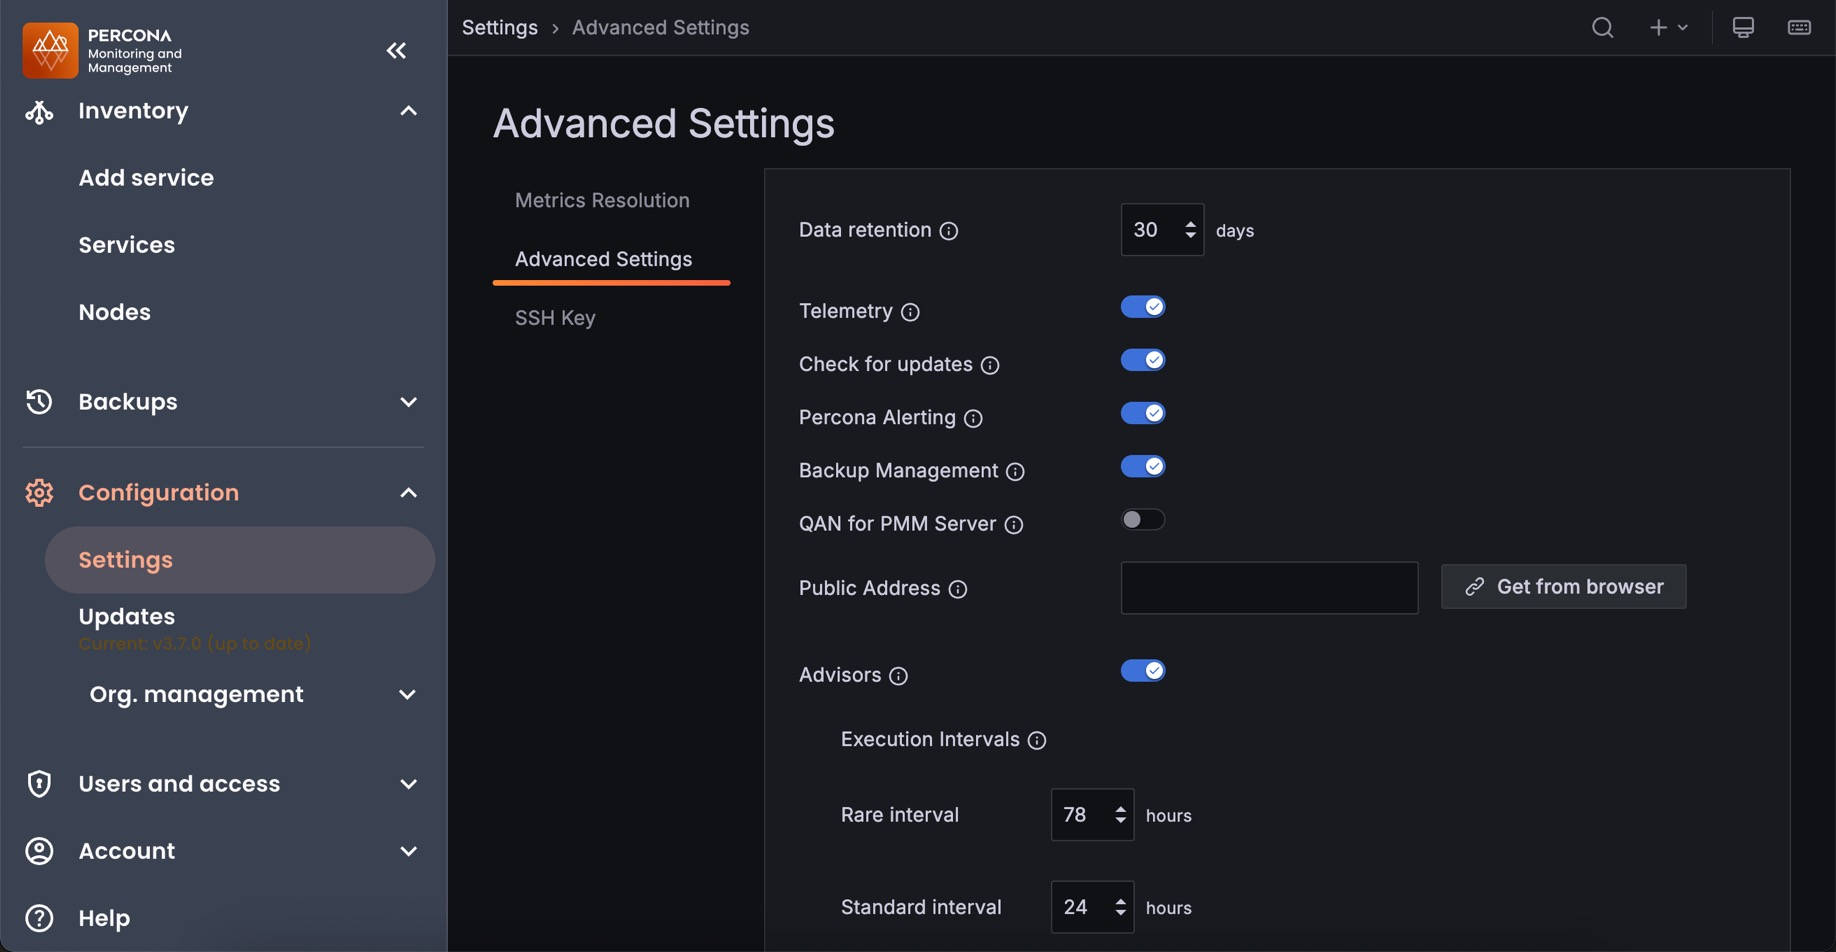
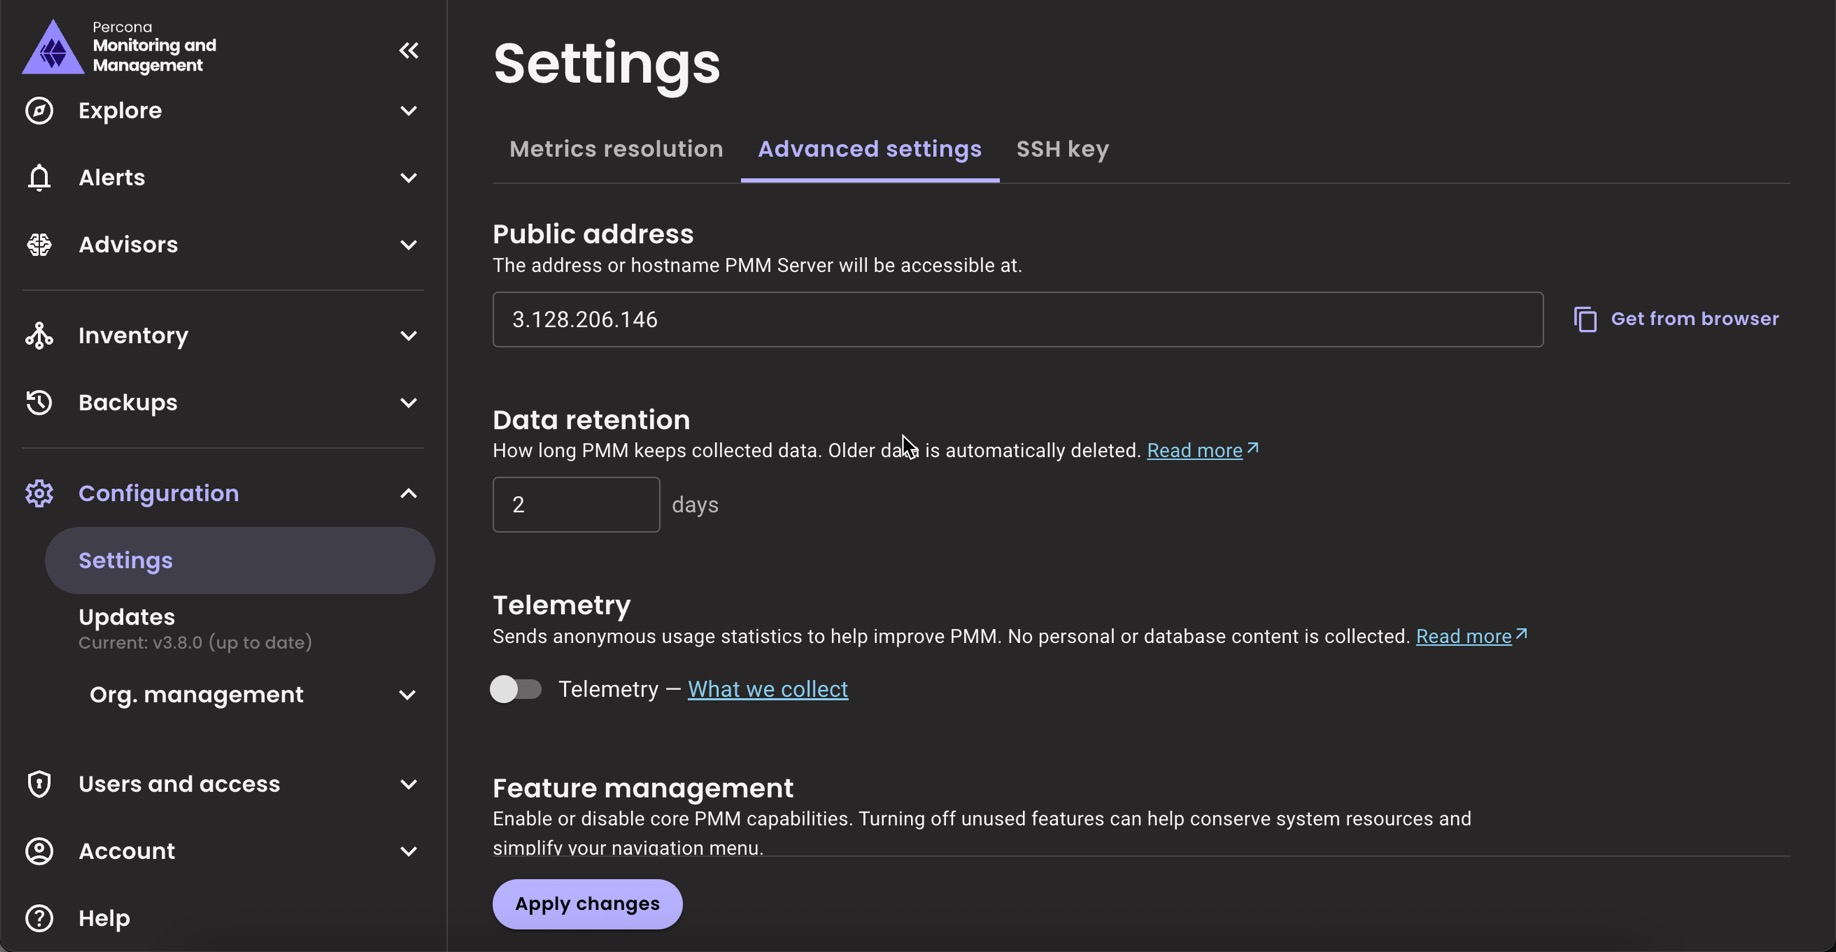
[Doc] Update PMM configuration references to use "Configuration > Settings > Advanced settings"

diff --git a/documentation/docs/release-notes/3.8.0.md b/documentation/docs/release-notes/3.8.0.md
@@ -25,25 +25,41 @@ PMM 3.8.0 ships with [Grafana 12.4](https://grafana.com/docs/grafana/latest/what
 
 **Custom dashboard compatibility**: All PMM-provided dashboards are unaffected by Grafana 12's Angular removal. If you have custom dashboards using legacy **Graph (old)** or **Table (old)** panels, Grafana will auto-migrate them on first load.
 
+**Recording rules**: Alert rules now support [**recording rules**](https://grafana.com/docs/grafana/latest/alerting/alerting-rules/create-recording-rules/), which pre-calculate frequently used or expensive queries and store the results as new metrics. This can simplify complex alert conditions and improve query performance at scale.
+
 ## 📦 Components upgrade
 
 - **Grafana**: Upgraded to 12.4.
 
 ## 🔒 Security updates
 
-TODO
+- [PMM-15005](https://perconadev.atlassian.net/browse/PMM-15005): Removed a self-signed TLS certificate that was previously included in the PMM Server image to suppress ClickHouse startup log noise. Because the same certificate was shared across all PMM Server installations, CVE scanners flagged it as a security risk. Since ClickHouse in PMM doesn't use TLS, the startup log noise is now suppressed without needing a certificate at all.
+
+## ⚠️ Deprecations
+
+- [PMM-14968](https://perconadev.atlassian.net/browse/PMM-14968): UI-based upgrades are now officially deprecated and will be removed in PMM 3.9.0 (July 2026). PMM now shows a warning on all pages where UI-based upgrades were available. Switch to [Docker](../pmm-upgrade/upgrade_docker.md), [Podman](../pmm-upgrade/upgrade_podman.md), or [Helm](../pmm-upgrade/upgrade_helm.md) before then. If you use Watchtower, remove it before switching to avoid conflicts.
 
 ## 📈 Improvements
 
 - [PMM-12392](https://perconadev.atlassian.net/browse/PMM-12392): Improved how PMM collects processlist data on MySQL 5.7.39+ and 8.0.22+ by switching from Information Schema to Performance Schema. On busy MySQL instances, this reduces the chance of query blocking and deadlocks, lowering the overall monitoring impact on your MySQL server workload.
 
-- [PMM-14937](https://perconadev.atlassian.net/browse/PMM-14937): When adding a MySQL, PostgreSQL, MongoDB, ProxySQL, Valkey, Amazon RDS, or Azure service, you can now set a **Connection timeout** to control how long PMM waits before giving up on a connection attempt. This is useful when monitoring remote or high-latency databases where the default 2s timeout is too short.
+- [PMM-14937](https://perconadev.atlassian.net/browse/PMM-14937): When adding a MySQL, PostgreSQL, MongoDB, ProxySQL, Valkey, Amazon RDS, or Azure service, you can now set a **Connection timeout** to control how long PMM waits before giving up on a connection attempt. This is useful when monitoring remote or high-latency databases where the default timeout is too short.
+
+- [PMM-14068](https://perconadev.atlassian.net/browse/PMM-14068): The [PostgreSQL Instance Summary](../reference/dashboards/dashboard-postgresql-instance-summary.md) dashboard is now easier to read: summary panels use a consistent color scheme to help you spot issues faster, the layout fits laptop screens without cutting off panels, and tables no longer require horizontal scrolling to see all data.
+
+- [PMM-14930](https://perconadev.atlassian.net/browse/PMM-14930): Building on the [native PMM navigation introduced in 3.6.0](3.6.0.md), the **Settings** page now also runs in native PMM UI. You get the same settings with **Metrics resolution**, **Advanced settings**, and **SSH key** tabs in a page that loads faster and looks consistent with the rest of the new interface. Access it at **Configuration > Settings** in the left sidebar.
+
+    ![PMM Settings in native UI](../images/PMM_Settings_native_ui.png)
+
+- [PMM-14995](https://perconadev.atlassian.net/browse/PMM-14995): PMM has been updated with Percona's refreshed brand. You'll notice the updated logo across the sidebar, login screen, and help center, along with new technology icons for MySQL, PostgreSQL, MongoDB, and Valkey, and a refreshed color palette throughout the interface.
 
 ## ✅ Fixed issues
 
 - [PMM-14748](https://perconadev.atlassian.net/browse/PMM-14748): Fixed dashboards resetting the time zone to the browser default when navigating between pages. All dashboards now respect the time zone set in your profile preferences. See [Set time zone](../reference/ui/timezone.md).
 
 - [PMM-14791](https://perconadev.atlassian.net/browse/PMM-14791): Resolved an issue in the **Disk Space** graphs on the **Disk Details** dashboard where values were hard to read, legend labels were missing, and charts were displayed incorrectly.
+
+- [PMM-14934](https://perconadev.atlassian.net/browse/PMM-14934): Fixed an issue where the `GF_SECURITY_ADMIN_USER` and `GF_SECURITY_ADMIN_PASSWORD` environment variables were ignored when starting PMM Server with a named Docker volume (`-v pmm-data:/srv`). You can now use these variables to set the admin username and password at first start, regardless of how the data volume is mounted. As part of this fix, **the first start after upgrading takes about 20–30 seconds longer** than usual while PMM initializes. Subsequent starts are unaffected. PMM HA deployments are unimpacted.
 
 ## 🚀 Ready to upgrade to PMM 3.8.0?
 

diff --git a/documentation/docs/configure-pmm/advanced_settings.md b/documentation/docs/configure-pmm/advanced_settings.md
@@ -16,7 +16,7 @@ PMM Telemetry is based on data collected by various PMM components and stored in
 !!! note alert alert-primary ""
     When PMM is installed, telemetry is not sent immediately. Before the first telemetry report is generated, PMM provides users with a 24-hour grace period to disable telemetry.
 
-To see the metrics being collected by telemetry, from the [main menu](../reference/ui/ui_components.md#1-main-menu) navigate to **PMM Configuration** > :material-cog-outline: **Settings** > **Advanced Settings** > **Telemetry** and hover over the exclamation mark.
+To see the metrics being collected by telemetry, from the [main menu](../reference/ui/ui_components.md#1-main-menu) navigate to **Configuration > Settings > Advanced settings > Telemetry** and hover over the exclamation mark.
 
 ![!image](../images/PMM_Settings_Advanced_Settings_Telemetry.png)
 
@@ -33,7 +33,7 @@ The landing page for this service, [check.percona.com](https://check.percona.com
 
 Grafana’s [anonymous usage statistics](https://grafana.com/docs/grafana/latest/administration/configuration/#reporting-enabled) is not managed by PMM. To activate it, you must change the PMM Server container configuration after each update.
 
-As well as via the **PMM Settings** page, you can also disable telemetry with the `-e DISABLE_TELEMETRY=1` option in your docker run statement for the PMM Server.
+You can also disable telemetry with the `-e DISABLE_TELEMETRY=1` option in your docker run statement for the PMM Server.
 
 For information on the various config parameters for telemetry, see the [config file](https://github.com/percona/pmm/blob/main/managed/services/telemetry/config.default.yml).
 
@@ -47,7 +47,7 @@ Advisors are sets of checks grouped by functionality that run a range of databas
 
 The findings are reported on the **Advisors > Advisor Insights** page, and an overview is displayed on the Home dashboard.
 
-The Advisors toggle is enabled by default and located in the **Execution intervals** section. Checks are re-fetched and rerun at the intervals configured there.
+The Advisors toggle is enabled by default. When enabled, you can configure how often checks run using the **Rare**, **Standard**, and **Frequent** interval fields in the same section.
 
 See [Working with Advisor checks](../advisors/advisors.md).
 

diff --git a/documentation/docs/advisors/advisors.md b/documentation/docs/advisors/advisors.md
@@ -19,7 +19,7 @@ Check results *always* remain on the PMM Server. They are never sent as part of 
 ## Configure execution intervals
 To control when and how often advisor checks run:
 
-- for all checks: Navigate to **PMM Configuration > Settings > Execution Intervals** to set global default intervals.
+- for all checks: Navigate to **Configuration > Settings > Advanced settings** and use the **Rare**, **Standard**, and **Frequent** interval fields in the **Advisors** section to set global default intervals.
 - for individual checks: Navigate to the specific advisor category (such as **Advisors > Security Advisors**, **Configuration Advisors**, **Query Advisors**, or **Performance Advisors**), then click the Edit icon in the **Actions** column to override the global setting for specific checks.
 
 ### Change run interval for automatic advisors

diff --git a/documentation/docs/advisors/develop-advisor-checks.md b/documentation/docs/advisors/develop-advisor-checks.md
@@ -230,7 +230,7 @@ To develop custom checks for PMM:
 
 3. Log into Grafana with credentials **admin/admin**.
 
-4. Go to **PMM Configuration > Settings > Advanced Settings** and make sure the **Advisors** option is enabled.
+4. Go to **Configuration > Settings > Advanced settings** and make sure the **Advisors** option is enabled.
 
 5. Create `/srv/custom-checks.yml` inside the `pmm-server` container with the content of your check. Specify **dev** advisor in your check.
 

diff --git a/documentation/docs/alert/alert_rules.md b/documentation/docs/alert/alert_rules.md
@@ -38,7 +38,7 @@ This section focuses on creating an alert rule based on PMM templates. For infor
 Before creating PMM alert rules, configure the required alert resources:
 {.power-number}
 
-1. Go to **PMM Configuration > Settings > Advanced Settings** and ensure that the **Percona Alerting** option is enabled. When this is disabled, the **Alerting** page displays only Grafana-managed alert rules. This means that you will not be able to create alerts based on PMM templates.
+1. Go to **Configuration > Settings > Advanced settings** and ensure that the **Percona Alerting** option is enabled. When this is disabled, the **Alerting** page displays only Grafana-managed alert rules. This means that you will not be able to create alerts based on PMM templates.
 2. Go to **Dashboards** and check the folders available for storing alert rules. If none of the available folders are relevant for your future alert rules, click **New > New Folder** and create a custom one.
 3. Go to **Alerting > Alert rule templates** and check the default PMM templates. If none of the templates include a relevant expression for the type of alerts that you want to create, click **Add template** to create a custom template instead.
 

diff --git a/documentation/docs/alert/disable_alerts.md b/documentation/docs/alert/disable_alerts.md
@@ -5,5 +5,5 @@ Percona Alerting is enabled by default in the PMM Settings. This feature adds th
 If for some reason you want to disable PMM Alert templates and keep only Grafana-managed alerts:
 {.power-number}
 
-1. Go to **PMM Configuration > Settings > Advanced settings**.
+1. Go to **Configuration > Settings > Advanced settings**.
 2. Disable the **Alerting** option. The **Alerting** menu will now display only Grafana-managed alert rules.

diff --git a/documentation/docs/configure-pmm/configure.md b/documentation/docs/configure-pmm/configure.md
@@ -2,7 +2,7 @@
 
 This section provides the instructions to configure your PMM instance after you have installed PMM.
 
-The **PMM Configuration** page gives you access to PMM setup's settings and inventory options:
+**Configuration > Settings** gives you access to PMM setup's settings and inventory options:
 
 * [Metrics resolution](metrics_res.md)
 * [Advanced Settings](advanced_settings.md)

diff --git a/documentation/docs/install-pmm/install-pmm-client/connect-database/azure.md b/documentation/docs/install-pmm/install-pmm-client/connect-database/azure.md
@@ -8,7 +8,7 @@
 The Microsoft Azure feature is turned off by default. To turn it on:
 {.power-number}
 
-1. Go to  **PMM Configuration > Settings > Advanced Settings**.
+1. Go to **Configuration > Settings > Advanced settings**.
 
 2. Click the <i class="uil uil-toggle-off"></i> toggle in the **Technical preview features** section of the page.
 

diff --git a/documentation/docs/install-pmm/install-pmm-server/deployment-options/docker/env_var.md b/documentation/docs/install-pmm/install-pmm-server/deployment-options/docker/env_var.md
@@ -35,7 +35,7 @@ Enable or disable specific PMM features:
 | `PMM_ENABLE_ALERTING` | `true` | Enables Percona Alerting system |
 | `PMM_ENABLE_BACKUP_MANAGEMENT` | `true` | Enables backup features |
 | `PMM_ENABLE_AZURE_DISCOVER` | `false` | Enables Azure database discovery |
-| `PMM_ENABLE_INTERNAL_PG_QAN` | `0` (disabled) | Enables Query Analytics for PMM Server's internal PostgreSQL. Useful for troubleshooting or HA scenarios. Set to `1` to enable. Can also be controlled via **PMM Configuration > Settings > Advanced Settings**. See [QAN for PMM Server's internal PostgreSQL](../../../../use/qan/QAN-stored-metrics.md#monitor-pmm-servers-internal-postgresql)
+| `PMM_ENABLE_INTERNAL_PG_QAN` | `0` (disabled) | Enables Query Analytics for PMM Server's internal PostgreSQL. Useful for troubleshooting or HA scenarios. Set to `1` to enable. Can also be controlled via **Configuration > Settings > Advanced settings**. See [QAN for PMM Server's internal PostgreSQL](../../../../use/qan/QAN-stored-metrics.md#monitor-pmm-servers-internal-postgresql)
 
 ### Debugging and troubleshooting
 Use these variables when diagnosing issues with PMM Server:

diff --git a/documentation/docs/install-pmm/install-pmm-server/deployment-options/docker/index.md b/documentation/docs/install-pmm/install-pmm-server/deployment-options/docker/index.md
@@ -134,7 +134,7 @@ After basic installation, you may want to customize your PMM Server setup:
 - Disable updates if needed:
 
     - **via Docker**:  add `-e PMM_ENABLE_UPDATES=0` to the `docker run` command (for the life of the container)
-    - **via UI**: go to **PMM Configuration > Settings > Advanced Settings** and disable **Check for Updates** (can be turned back on by any admin in the UI)
+    - **via UI**: go to **Configuration > Settings > Advanced settings** and disable **Check for Updates** (can be turned back on by any admin in the UI)
 
 - Enable HTTP (insecure, NOT recommended): add `--publish 80:8080` to the `docker run` command.
 

diff --git a/documentation/docs/reference/faq.md b/documentation/docs/reference/faq.md
@@ -42,7 +42,7 @@ If you encounter errors such as `ERROR: Unsupported distribution` when running t
 
 ## Retention
 
-To control data retention, go to **PMM Configuration > Settings > Advanced Settings > Data retention** to adjust the value in days.
+To control data retention, go to **Configuration > Settings > Advanced settings > Data retention** to adjust the value in days.
 
 !!! seealso alert alert-info "See also"
     [Configure data retention](../configure-pmm/advanced_settings.md#data-retention)

diff --git a/documentation/docs/reference/nomad.md b/documentation/docs/reference/nomad.md
@@ -12,7 +12,7 @@ Nomad is **disabled by default** in PMM and has no impact on system performance 
 
 ## Prerequisites
 
-Before enabling Nomad, check that PMM Server has a public address configured under **PMM Configuration > Advanced Settings**. This is required for Nomad to function properly and enable communication between Nomad components.
+Before enabling Nomad, check that PMM Server has a public address configured under **Configuration > Settings > Advanced settings**. This is required for Nomad to function properly and enable communication between Nomad components.
 
 ### Enable Nomad
 